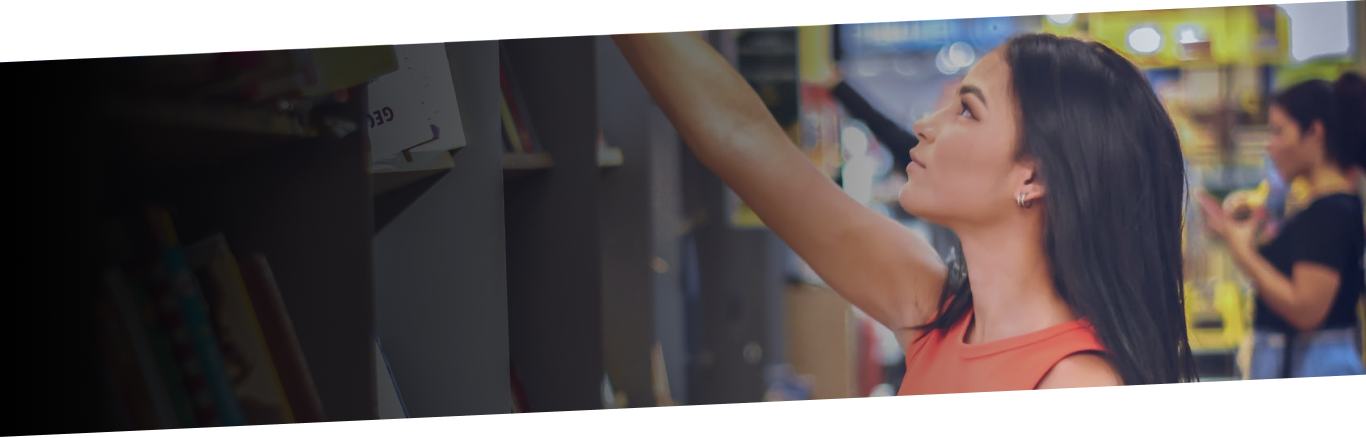
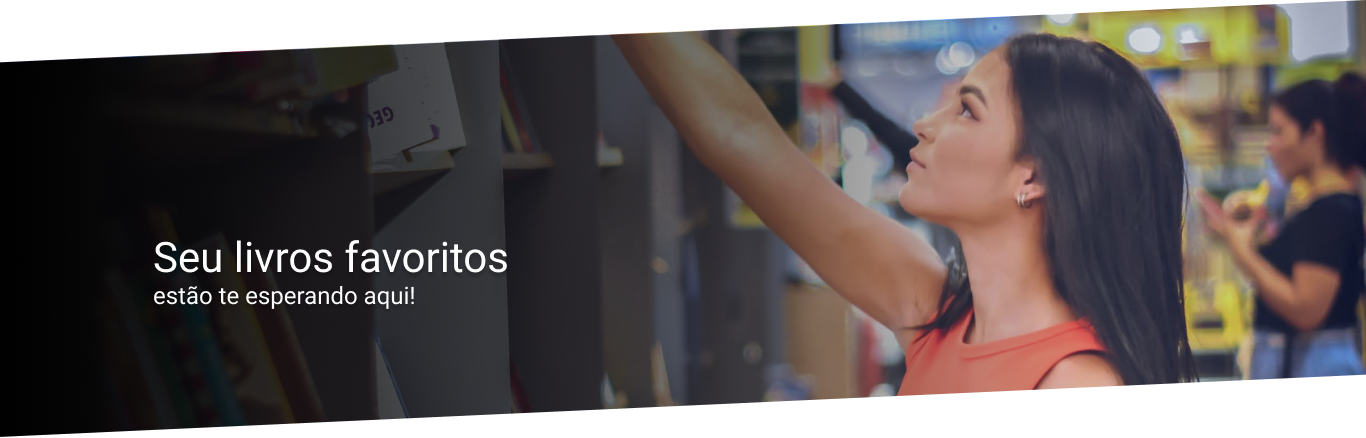
feat(CarouselCover): fix cover carousel

Changed region(s): [[0.0922, 0.5639, 0.369, 0.6233], [0.0922, 0.653, 0.3075, 0.7123]]

diff --git a/src/components/CarouselCover/index.tsx b/src/components/CarouselCover/index.tsx
@@ -1,0 +1,58 @@
+import React, { useEffect, useState } from "react";
+
+import Cover from "../../assets/images/cover-header.png";
+import { Container } from "./styles";
+
+const delay = 6000;
+const images = [Cover, Cover];
+
+const Slider: React.FC = () => {
+  const [index, setIndex] = useState(0);
+
+  useEffect(() => {
+     const Timer = setTimeout(
+      () =>
+        setIndex((index) =>
+          index === images.length - 1 ? 0 : index + 1
+        ),
+      delay,
+    );
+
+    return () => {
+      clearTimeout(Timer);
+    };
+  }, [index]);
+  return (
+    <Container>
+      <div className="slideshow">
+        <div
+          className="slideshowSlider"
+          style={{ transform: `translate3d(${-index * 100}%, 0, 0)` }}
+        >
+          {images.map((image, index) => (
+            <img
+              src={image}
+              className="slide"
+              key={index}
+              alt="Capa"
+            />
+          ))}
+        </div>
+
+        <div className="slideshowDots">
+          {images.map((_, indexDot) => (
+            <div
+              key={indexDot}
+              className={`slideshowDot${index === indexDot ? " active" : ""}`}
+              onClick={() => {
+                setIndex(indexDot);
+              }}
+            />
+          ))}
+        </div>
+      </div>
+    </Container>
+  );
+};
+
+export default Slider;

diff --git a/src/components/CarouselCover/styles.ts b/src/components/CarouselCover/styles.ts
@@ -1,0 +1,50 @@
+import styled from "styled-components";
+
+export const Container = styled.div`
+  display: flex;
+  width: 100%;
+
+  .slideshow {
+    margin: 0 auto;
+    overflow: hidden;
+    width: 100%;
+  }
+
+  .slideshowSlider {
+    white-space: nowrap;
+    transition: ease 1000ms;
+  }
+
+  .slide {
+    display: inline-block;
+    width: 100%;
+  }
+
+  @media (max-width: 600px) {
+    width: 100%;
+    .slide {
+      height: 80%;
+    }
+  }
+
+  .slideshowDots {
+    text-align: center;
+    position: relative;
+    top: -80px;
+;
+  }
+
+  .slideshowDot {
+    display: inline-block;
+    height: 10px;
+    width: 10px;
+    border-radius: 50%;
+    cursor: pointer;
+    margin: 15px 7px 0px;
+    background-color: #c4c4c4;
+  }
+
+  .slideshowDot.active {
+    background-color: ${(props) => props.theme.palette.primary.main};
+  }
+`;

diff --git a/src/containers/HomePage/Cover/index.tsx b/src/containers/HomePage/Cover/index.tsx
@@ -3,11 +3,12 @@ import React from "react";
 import CoverImage from "../../../assets/images/cover-header.png";
 import CoverImageMobile from "../../../assets/images/cover-header-mobile.png";
 import { Container, ContainerCover, ContainerText } from "./styles";
+import CarouselCover from "../../../components/CarouselCover";
 
 const Cover: React.FC = () => {
   return (
     <Container>
-      <ContainerCover>
+      {/* <ContainerCover>
         <ContainerText>
           <h1>Seus livros favoritos</h1>
           <h2>estão te esperando aqui!</h2>
@@ -22,7 +23,8 @@ const Cover: React.FC = () => {
           src={CoverImageMobile}
           alt="Segunda Capa"
         />
-      </ContainerCover>
+      </ContainerCover> */}
+      <CarouselCover />
     </Container>
   );
 };

diff --git a/src/containers/HomePage/Products/Clothing/index.tsx b/src/containers/HomePage/Products/Clothing/index.tsx
@@ -26,7 +26,7 @@ const Clothing: React.FC = () => {
     <Container>
       <Title titleSection="Destaques em vestuário" />
         {infoCategories && infoCategories.length > 3 && (
-          <Carousel infoCategories={infoCategories}></Carousel>
+          <Carousel infoCategories={infoCategories}/>
         )}
     </Container>
   );

diff --git a/src/containers/HomePage/Products/Desk/index.tsx b/src/containers/HomePage/Products/Desk/index.tsx
@@ -26,7 +26,7 @@ const Desk: React.FC = () => {
     <Container>
       <Title titleSection="Destaques em escritório" />
         {infoCategories && infoCategories.length > 3 && (
-          <Carousel infoCategories={infoCategories}></Carousel>
+          <Carousel infoCategories={infoCategories}/>
         )}
     </Container>
   );

diff --git a/src/components/Carousel/index.tsx b/src/components/Carousel/index.tsx
@@ -32,7 +32,6 @@ const Carousel: React.FC<Props> = ({infoCategories}) => {
   return (
     <Container>
     <ContainerCarousel>
-      {console.log(infoCategories)}
       <AliceCarousel 
         mouseTracking 
         responsive={responsive}  

diff --git a/src/containers/HomePage/Cover/styles.ts b/src/containers/HomePage/Cover/styles.ts
@@ -8,6 +8,7 @@ export const Container = styled.div`
   flex-direction: column;
   z-index: 0;
   margin: 0 auto;
+  margin-top: -50px;
 `;
 
 export const ContainerCover = styled.div`
